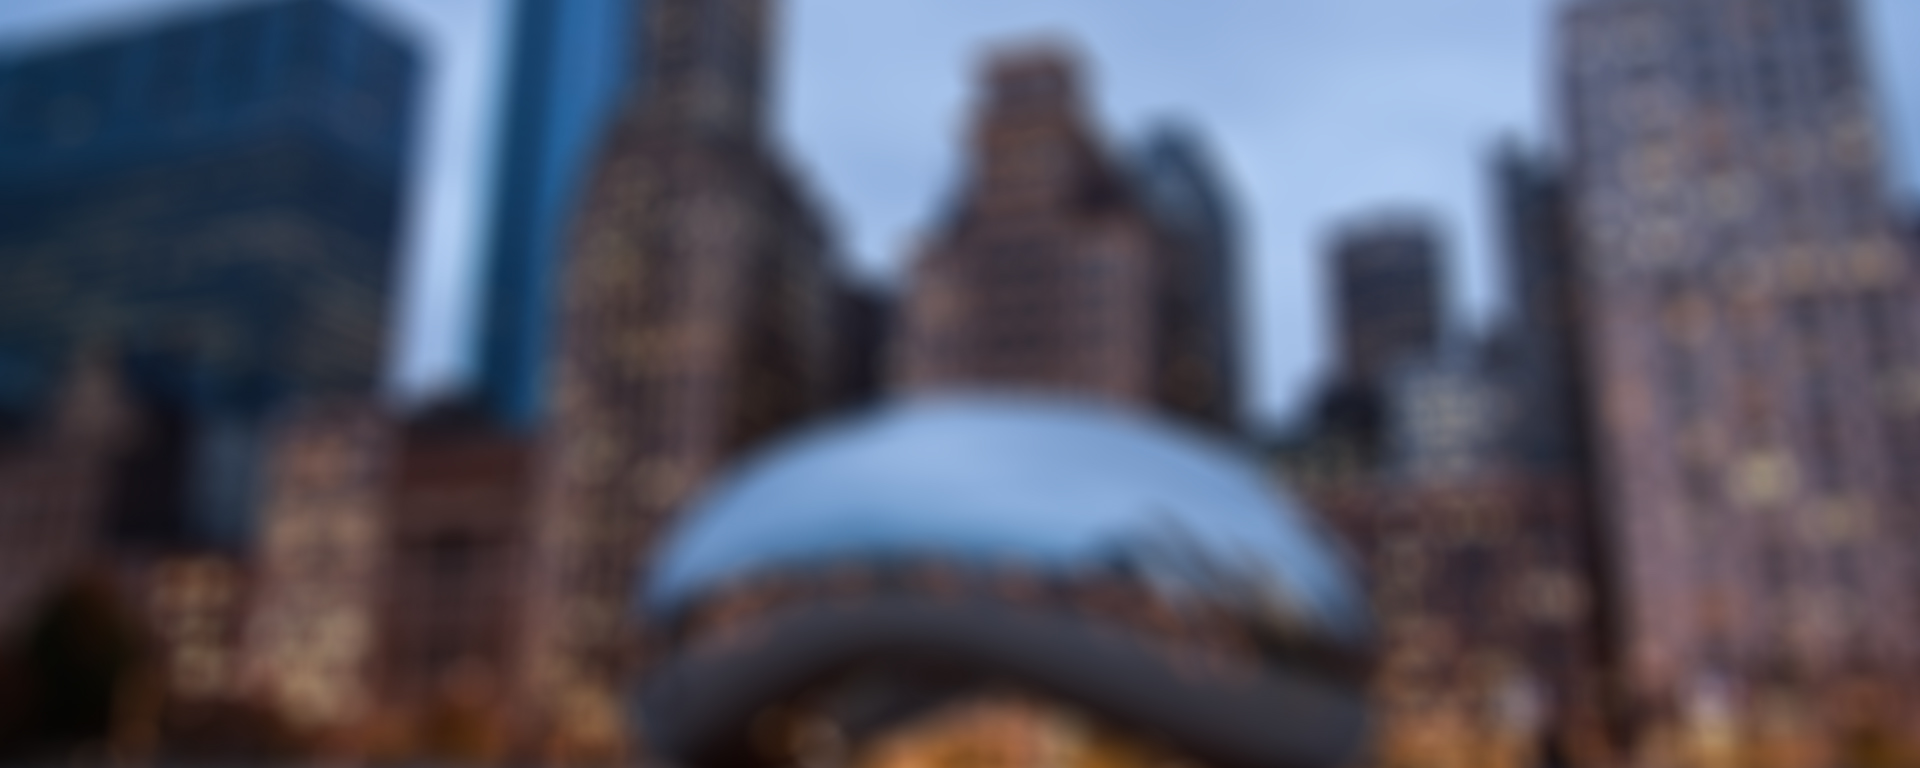
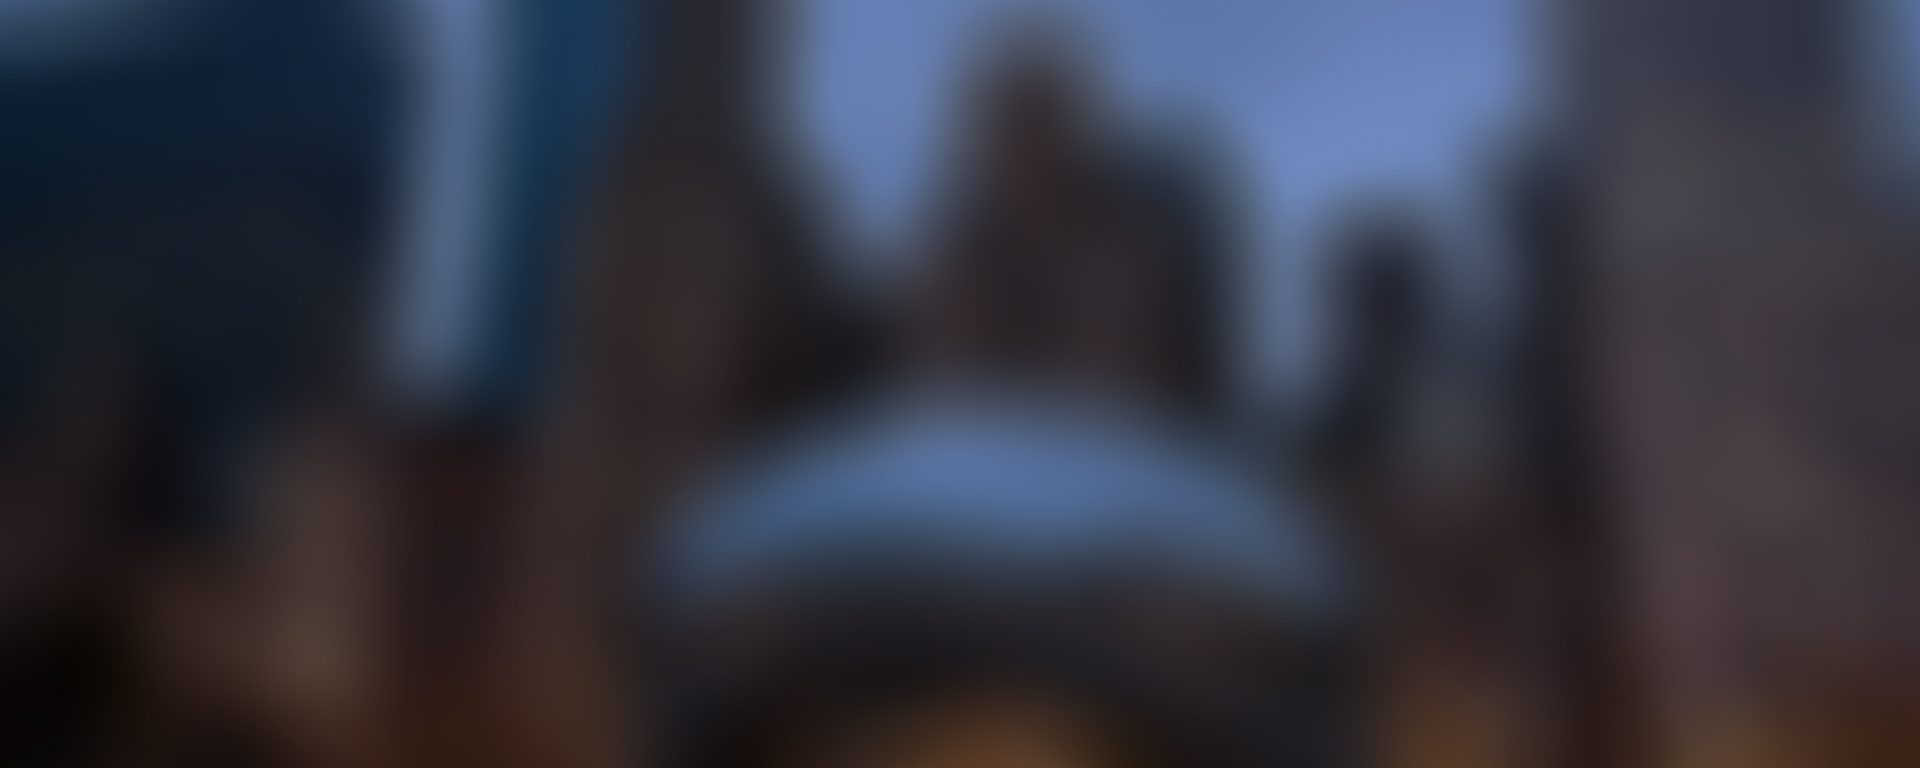
updates

diff --git a/docs/index.html b/docs/index.html
@@ -23,8 +23,7 @@
 
 					<!-- Logo -->
 						<div id="logo">
-							<span class="image avatar48"><img src="images/avatar.jpg" alt="" /></span>
-							<h1 id="title">Project</h1>
+							<h1 id="title"></h1>
 						</div>
 
 					<!-- Nav -->

diff --git a/docs/assets/css/main.css b/docs/assets/css/main.css
@@ -2267,7 +2267,7 @@
 
 			#main > section.one {
 				background-color: #81918E;
-				background-image: url("../../images/banner.jpg");
+				background-image: url("../../images/chicagopicforproject2.jpg");
 			}
 
 			#main > section.two {
